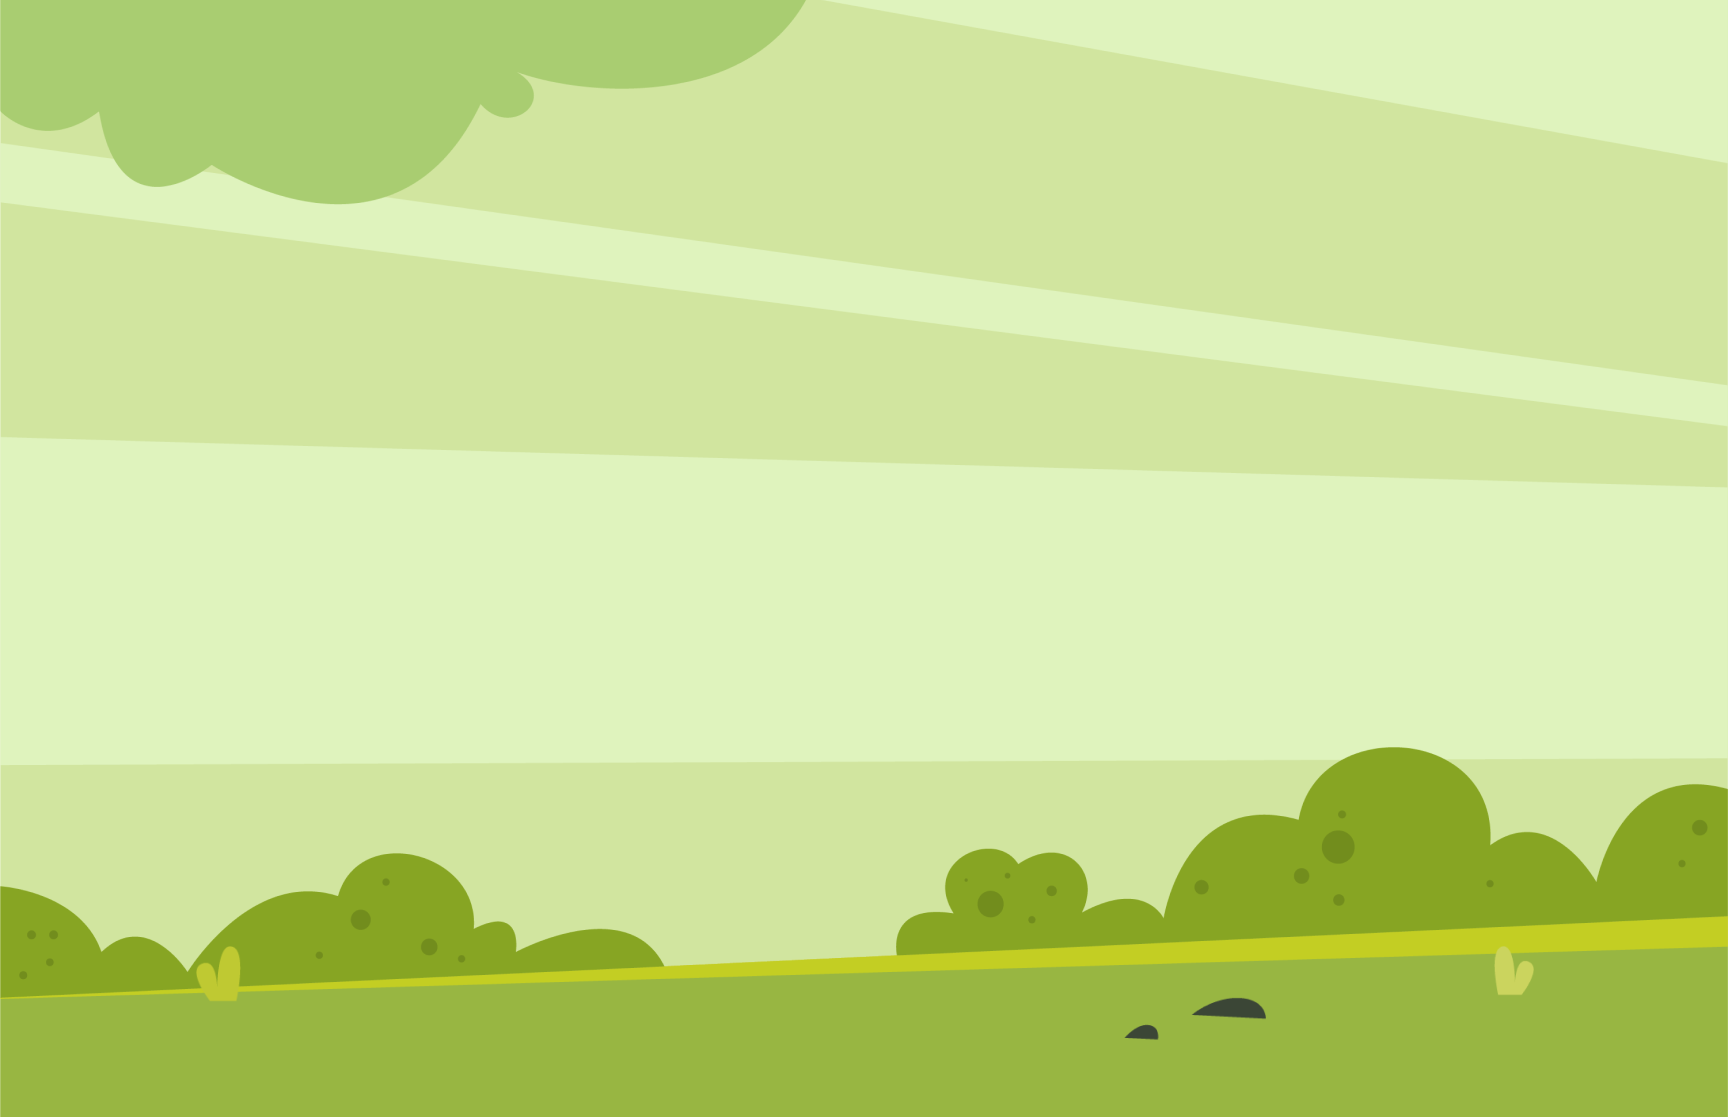
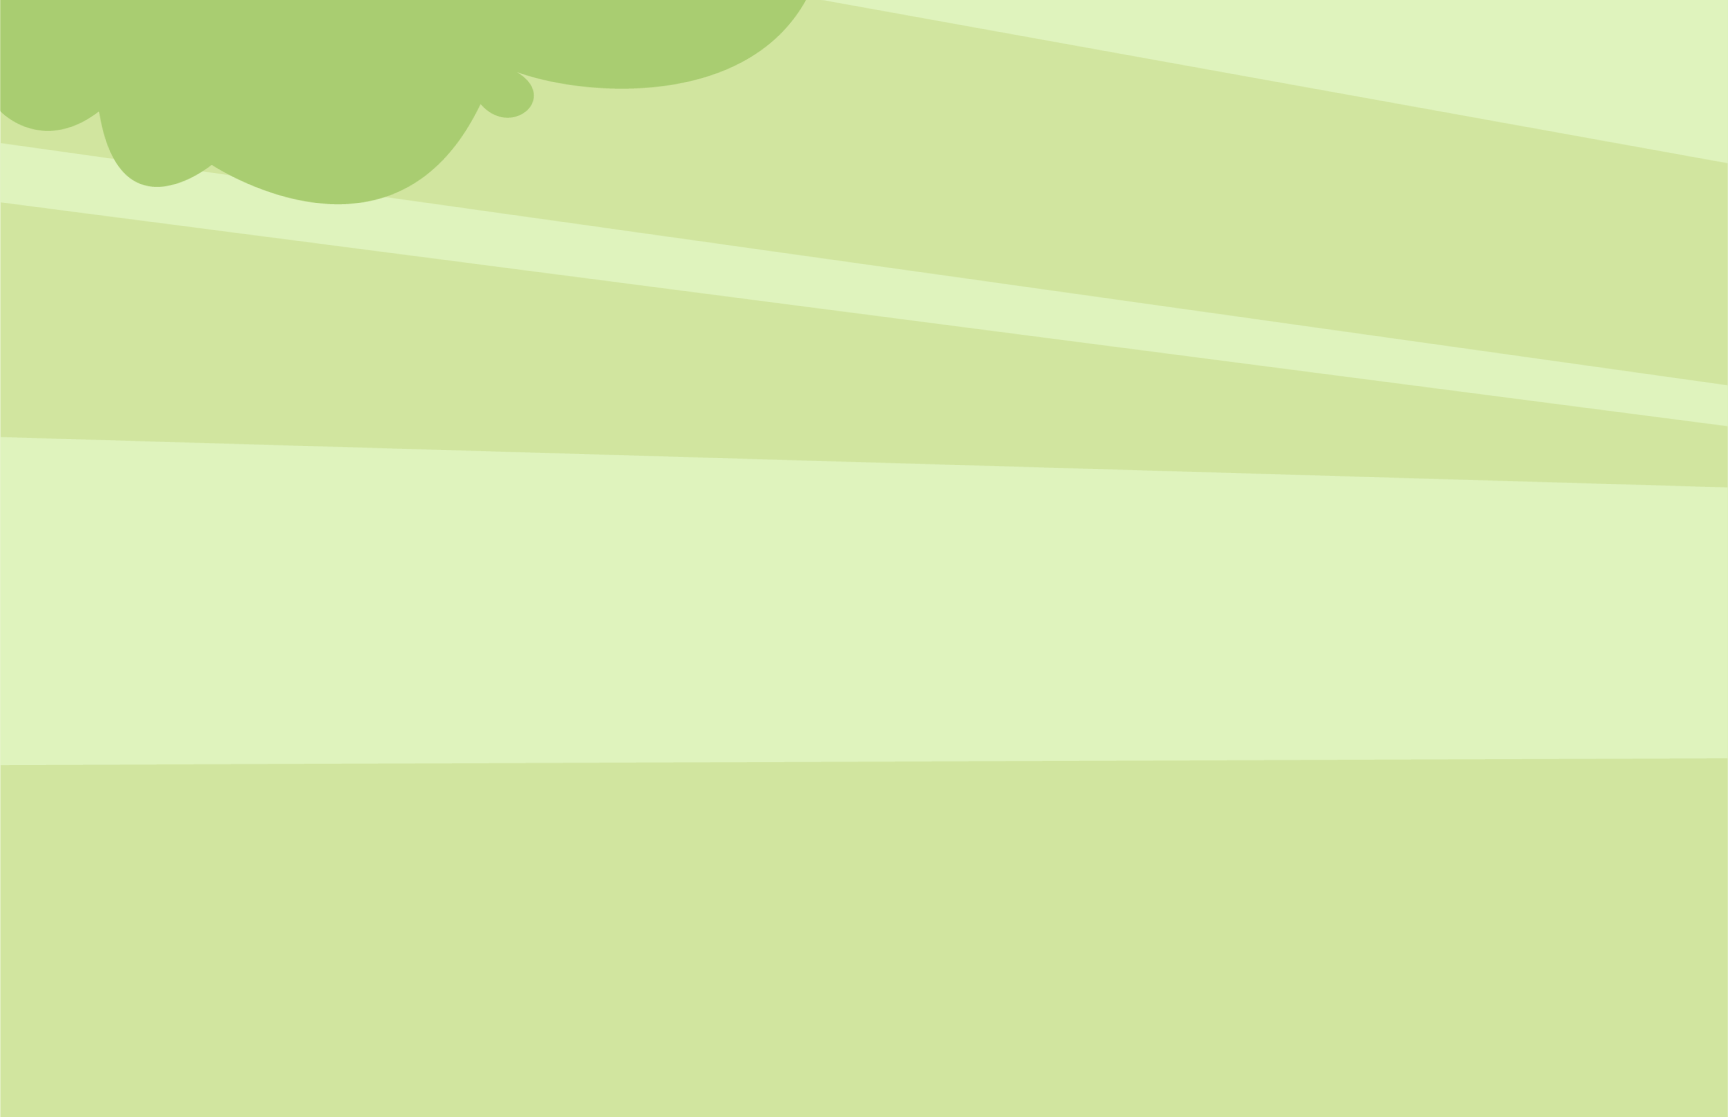
eurekacomplete

Changed region(s): [[0.0, 0.6697, 1.0, 1.0]]

diff --git a/app/event/eureka/AboutEureka.tsx b/app/event/eureka/AboutEureka.tsx
@@ -5,13 +5,13 @@ import aboutbg from '@/assets/images/Eureka/AboutBg.png'
 const rulesDecisia = [
     "Each team must comprise 3-4 members (including the Team Lead) from the same or different colleges and/or streams.",
   "There will be two rounds: the Screening Round and the Final Round.",
-  "Screening Round: This round will test teams on mathematical, analytical, and aptitude skills. It will be an on-site pen-and-paper test.",
+  "Screening Round: This round will test teams on mathematical, analytical and aptitude skills. It will be an on-site pen-and-paper test.",
   "Teams will have 60 questions to answer in 50 minutes. The top 10 teams will be selected for the on-site Final Round.",
-  "Final Round: This round will primarily be hosted on the Eureka website. Teams will embark on an adventurous journey involving code-breaking, clue-finding, logical challenges, and brainstorming activities.",
-  "The Final Round will consist of 5 steps, with 3 riddles per step. There may also be a surprise hurdle to solve before declaring the final winner.",
+  "Final Round: This round will primarily be hosted on the Eureka website. Teams will embark on an adventurous journey involving code-breaking, clue-finding, logical challenges and brainstorming activities.",
+  "The Final Round will consist of 5 steps with 3 riddles per step. There may also be a surprise hurdle to solve before declaring the final winner.",
   "Teams will be entitled to 3 hints in total, applicable to individual riddles, but limited to 1 hint per step.",
-  "For the Final Round, contestants must bring at least one laptop per team (mandatory). The use of mobile phones and tablets is allowed.",
-  "Participants are allowed to browse the internet or use any software, program, or AI tool to solve the puzzles in the Finals.",
+  "For the Final Round, contestants must bring at least one laptop per team (mandatory). The use of mobile phones and tablets are allowed.",
+  "Participants are allowed to browse the internet or use any software program or AI tool to solve the puzzles in the Finals.",
   ];
 const AboutEureka = () => {
     return (
@@ -19,9 +19,9 @@ const AboutEureka = () => {
           id="rules"
           className={`min-h-screen py-8 relative  flex items-center  overflow-hidden  `}
         >
-          {/* <div
-            className="absolute top-0 left-0 w-full h-full bg-gradient-to-tr from-[#0D30BB] to-[#041550] -z-30"
-          ></div> */}
+          <div
+            className="absolute top-0 left-0 w-full h-full bg-[#98B643] -z-30"
+          ></div>
           {/* --------------------------about Image background-------------- */}
           <Image
             src={aboutbg}
@@ -31,7 +31,7 @@ const AboutEureka = () => {
            
           <div className="maxWidthForSections flex flex-col items-center">
             <div
-              className={`rounded-xl sm:py-12 py-6 sm:px-8 px-4 bg-[#223A32]/30 backdrop-filter backdrop-blur-sm relative shadow-black/20 shadow-md `}
+              className={`rounded-xl sm:py-12 py-6 sm:px-8 px-4 bg-[#223A32]/30 backdrop-filter backdrop-blur-sm relative shadow-white/30 shadow-md `}
             >
               
               <h1 className="uppercase text-center text-2xl sm:text-5xl mb-8 text-white text-shadow-dark">

diff --git a/app/event/eureka/FaqEureka.tsx b/app/event/eureka/FaqEureka.tsx
@@ -1,13 +1,13 @@
 import React from 'react'
 import FaqEvent from '@/components/FaqEvent'
 import leafBg from '@/assets/images/Eureka/leafBg.png'
-import leafBgMobile from '@/assets/images/Eureka/leafBgMobile.png'
+import leafBgMobile from '@/assets/images/Eureka/leafBgMobile2.png'
 import Image from 'next/image';
 const faqData = [
     {
         question: "Can we use any AI tools for the  event?",
         answer: 
-          " Feel free to utilize any AI tools of your choice for the event. We encourage participants to explore a diverse range of AI tools to enhance their experience and contribute to the innovative atmosphere at the Electrical Engineering Department, Jadavpur University.",
+          "For Round 2, feel free to utilize any AI tools of your choice for the event. We encourage participants to explore a diverse range of AI tools to enhance their experience and contribute to the innovative atmosphere at the Electrical Engineering Department, Jadavpur University.",
     },
     {
         question: "Will there be any charging points and internet available?",
@@ -17,7 +17,7 @@ const faqData = [
     {
         question: "Is it mandatory to form a team with students of the same department?",
         answer: 
-          "Participation is entirely voluntary, and forming a team is open to  students from any department or college. Embrace the flexibility to collaborate across disciplines and create diverse teams at your convenience. Join us in this non-mandatory opportunity to foster  interdisciplinary connections and showcase your collective talents  at the Electrical Engineering Department, Jadavpur University.",
+          "Participation is entirely voluntary, and forming a team is open to  students from any department or college. Embrace the flexibility to collaborate across disciplines and create diverse teams at your convenience. Join us in this opportunity to foster  interdisciplinary connections and showcase your collective talents  at the Electrical Engineering Department, Jadavpur University.",
     },
     {
         question: "Who can participate in this event?",
@@ -27,7 +27,7 @@ const faqData = [
     {
         question: " Where will the event be held?",
         answer: 
-          "The event will be held on campus at the Electrical Engineering Department, Jadavpur University. It promises to be an insightful gathering, featuring the latest in electrical engineering and opportunities for enriching discussions.",
+          "The event will be held on campus at the Electrical Engineering Department, Jadavpur University. It promises to be an insightful gathering, featuring the latest breakthrough in electrical engineering and opportunities for enriching discussions.",
     },
     
   ];
@@ -37,7 +37,7 @@ const FaqEureka = () => {
         <div id='faq' className='py-12 min-h-screen relative flex justify-center items-center '>
            <Image
             src={leafBg}
-            className=" h-auto animate-twinkle hidden sm:block w-full  absolute opacity-40   top-0 right-0 -z-10"
+            className=" h-auto  hidden sm:block w-full  absolute opacity-60   top-0 right-0 -z-10"
             alt="trees"
           />
           <Image

diff --git a/app/event/eureka/HomeEureka.tsx b/app/event/eureka/HomeEureka.tsx
@@ -3,10 +3,11 @@ import React from "react";
 import Image from "next/image";
 import EventHero from "@/components/EventHero";
 import HeroBg from '@/assets/images/Eureka/hero section.png'
+import HeroBgBottom from '@/assets/images/Eureka/heroBottom.png'
 import vine1 from '@/assets/images/Eureka/vine1.png'
 import vine2 from '@/assets/images/Eureka/vine2.png'
 import birds from '@/assets/images/Eureka/white brids.png'
-const aboutDecisia = ` Welcome to “ Eureka! ”, the ultimate test of logic, reasoning, and puzzle-solving skills at our annual  techno management fest organised by JUEE ! This event will push your mental agility and problem-solving abilities to the limit with challenging riddles, complex puzzles, and mind-boggling aptitude questions. Assemble your team, sharpen your wits, and get ready to tackle Eureka's thrilling challenges that promise to be both stimulating and unforgettable!`;
+const aboutDecisia = ` Welcome to “ Eureka! ”, the ultimate test of logic, reasoning, and puzzle-solving skills at the annual  techno management fest organised by JUEE ! This event will push your mental agility and problem-solving abilities to the limit with challenging riddles, complex puzzles, and mind-boggling aptitude questions. Assemble your team, sharpen your wits, and get ready to tackle Eureka's thrilling challenges that promise to be both stimulating and unforgettable!`;
 const HomeEureka = () => {
     return (
         <div
@@ -21,7 +22,12 @@ const HomeEureka = () => {
             <div className="relative w-full h-full ">
               <Image
                 src={HeroBg}
-                className="absolute top-0 left-0 h-full object-cover"
+                className="absolute top-0 left-0 md:w-full md:h-auto h-full object-cover"
+                alt="trees"
+              />
+              <Image
+                src={HeroBgBottom}
+                className="absolute bottom-0 w-full"
                 alt="trees"
               />
               <Image

diff --git a/app/event/eureka/Prizes.tsx b/app/event/eureka/Prizes.tsx
@@ -2,7 +2,7 @@ import React from "react";
 import gold from "@/assets/images/Eureka/gold prize.png";
 import silver from "@/assets/images/Eureka/silver prize.png";
 import bronze from "@/assets/images/Eureka/bronze prize.png";
-import leafBg from '@/assets/images/Eureka/leafBg.png'
+import leafBg from '@/assets/images/Eureka/leafBg2.png'
 import leafBgMobile from '@/assets/images/Eureka/leafBgMobile.png'
 
 import Image from "next/image";
@@ -15,7 +15,7 @@ const Prizes = () => {
            
             <Image
             src={leafBg}
-            className=" h-auto animate-twinkle hidden sm:block w-full  absolute opacity-40   top-0 right-0 -z-10"
+            className=" h-auto hidden sm:block w-full  absolute    top-0 right-0 -z-10"
             alt="trees"
           />
           <Image
